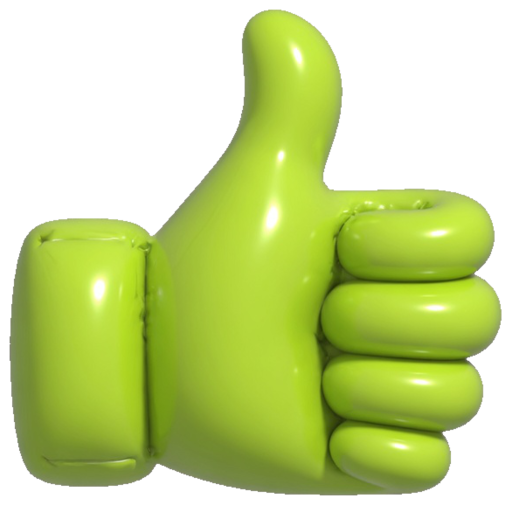
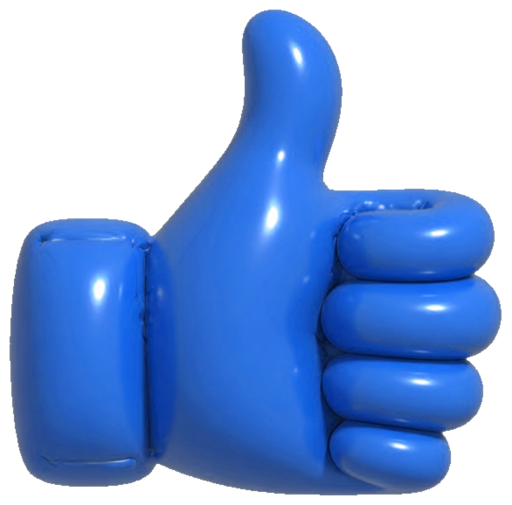
feat: enhance user presence and message reaction features
- Added lastSeenAt property to user profiles for improved presence tracking.
- Updated message reaction handling to return action type (added, changed, removed) along with reactions.
- Enhanced real-time updates for message reactions and user presence notifications.
- Improved mobile app to display last active status and manage presence updates effectively.
- Refactored push notification handling to differentiate between message types and reactions.

diff --git a/backend/src/realtime/realtime.gateway.ts b/backend/src/realtime/realtime.gateway.ts
@@ -216,13 +216,18 @@ export class RealtimeGateway implements OnGatewayConnection, OnGatewayDisconnect
     if (!isMember) throw new WsException('Not a conversation member');
     const msg = await this.messages.getInConversation(dto.messageId, dto.conversationId);
     if (!msg) throw new WsException('Message not found');
-    const reactions = await this.messages.toggleReaction(dto.messageId, userId, dto.emoji);
+    const { reactions, action } = await this.messages.toggleReaction(dto.messageId, userId, dto.emoji);
     const payload = {
       messageId: dto.messageId,
       conversationId: dto.conversationId,
       reactions,
     };
     this.server.to(this.room(dto.conversationId)).emit('message:reaction', payload);
+    if (action !== 'removed' && msg.senderId !== userId) {
+      this.deliverReactionPush(msg, userId, dto.emoji, dto.conversationId).catch((e) =>
+        this.logger.error(`reaction push failed: ${(e as Error).message}`),
+      );
+    }
     return payload;
   }
 
@@ -398,7 +403,11 @@ export class RealtimeGateway implements OnGatewayConnection, OnGatewayDisconnect
   }
 
   private broadcastPresence(userId: string, online: boolean) {
-    this.server.emit('presence:update', { userId, online });
+    this.server.emit('presence:update', {
+      userId,
+      online,
+      lastSeenAt: new Date().toISOString(),
+    });
   }
 
   private relaySignal(client: Socket, callId: string, event: string, extra: Record<string, unknown>) {
@@ -488,6 +497,43 @@ export class RealtimeGateway implements OnGatewayConnection, OnGatewayDisconnect
     const two = (n: number) => n.toString().padStart(2, '0');
     if (h > 0) return `${h}:${two(m)}:${two(s)}`;
     return `${m}:${two(s)}`;
+  }
+
+  private static readonly reactionCopy: Record<string, string> = {
+    like: 'liked your message',
+    love: 'loved your message',
+    haha: 'laughed at your message',
+    wow: 'was surprised by your message',
+    sad: 'reacted sad to your message',
+    angry: 'reacted angry to your message',
+  };
+
+  private async deliverReactionPush(
+    msg: { id: string; senderId: string; text?: string | null; type?: string },
+    reactorId: string,
+    reaction: string,
+    conversationId: string,
+  ) {
+    const reactor = await this.users.findById(reactorId);
+    const title = reactor?.fullName || reactor?.username || 'someone';
+    const body = RealtimeGateway.reactionCopy[reaction] ?? 'reacted to your message';
+    const tokens = await this.devices.getTokensForUsers([msg.senderId], {
+      excludePlatform: 'ios-voip',
+    });
+    if (!tokens.length) return;
+    await this.push.send(tokens, {
+      title,
+      body,
+      data: {
+        conversationId,
+        type: 'reaction',
+        messageId: msg.id,
+        reaction,
+        senderId: reactorId,
+        senderUsername: reactor?.username ?? '',
+        senderFullName: reactor?.fullName ?? '',
+      },
+    });
   }
 
   private async deliverPushForOffline(dto: SendMessageDto, envelope: any) {

diff --git a/mobile/lib/services/app_state.dart b/mobile/lib/services/app_state.dart
@@ -30,6 +30,7 @@ class AppState extends ChangeNotifier {
   final Set<String> _loadingMessages = {};
   // online presence by userId
   final Map<String, bool> _online = {};
+  final Map<String, DateTime> _lastSeen = {};
   // typing: conversationId -> userId -> bool
   final Map<String, Set<String>> _typingUsers = {};
   // the conversation currently open on screen (no banner for it)
@@ -284,6 +285,7 @@ class AppState extends ChangeNotifier {
     _conversations = [];
     _messages.clear();
     _online.clear();
+    _lastSeen.clear();
     _typingUsers.clear();
     notifyListeners();
     try {
@@ -306,6 +308,7 @@ class AppState extends ChangeNotifier {
     if (auth.token == null) return;
     try {
       _conversations = await ApiService.listConversations(auth.token!);
+      _seedLastSeen(_conversations);
       for (final c in _conversations) {
         final last = c.lastMessage;
         if (last == null) continue;
@@ -729,10 +732,52 @@ class AppState extends ChangeNotifier {
     final online = data['online'] as bool?;
     if (userId == null || online == null) return;
     _online[userId] = online;
+    final raw = data['lastSeenAt'];
+    final seen = raw == null ? DateTime.now() : DateTime.tryParse(raw.toString());
+    if (seen != null) _rememberLastSeen(userId, seen);
     notifyListeners();
   }
 
+  void _seedLastSeen(List<Conversation> convs) {
+    for (final c in convs) {
+      for (final m in c.members) {
+        if (m.lastSeenAt != null) _rememberLastSeen(m.userId, m.lastSeenAt!);
+      }
+    }
+  }
+
+  void _rememberLastSeen(String userId, DateTime at) {
+    final prev = _lastSeen[userId];
+    if (prev == null || at.isAfter(prev)) _lastSeen[userId] = at;
+  }
+
   bool isOnline(String userId) => _online[userId] ?? false;
+
+  DateTime? lastSeenAt(String userId) => _lastSeen[userId];
+
+  String lastActiveLabel(String userId) {
+    if (isOnline(userId)) return 'live now';
+    final at = _lastSeen[userId];
+    if (at == null) return 'offline';
+    return formatLastActive(at);
+  }
+
+  static String formatLastActive(DateTime at) {
+    final d = DateTime.now().difference(at);
+    if (d.isNegative || d.inSeconds < 45) return 'just now';
+    if (d.inMinutes < 60) {
+      final n = d.inMinutes < 1 ? 1 : d.inMinutes;
+      return n == 1 ? '1 minute ago' : '$n minutes ago';
+    }
+    if (d.inHours < 24) {
+      final n = d.inHours;
+      return n == 1 ? '1 hour ago' : '$n hours ago';
+    }
+    if (d.inDays == 1) return 'yesterday';
+    if (d.inDays < 7) return '${d.inDays} days ago';
+    final months = ['jan', 'feb', 'mar', 'apr', 'may', 'jun', 'jul', 'aug', 'sep', 'oct', 'nov', 'dec'];
+    return '${at.day} ${months[at.month - 1]}';
+  }
 
   /// Start a 1:1 audio or video call in a private conversation.
   Future<bool> startCall(Conversation c, {required bool video}) async {

diff --git a/mobile/lib/services/push_service.dart b/mobile/lib/services/push_service.dart
@@ -60,6 +60,7 @@ class PushService {
       await _persistIncomingCall(message.data);
       return;
     }
+    if (message.data['type'] == 'reaction') return;
     await _persistFcmMessage(message);
   }
 
@@ -252,13 +253,13 @@ class PushService {
     // DatabaseException(database_closed). The fallback is for the case where
     // AppState hasn't wired up yet.
     final persist = onPersistMessage;
-    if (persist != null && message.data['messageId'] != null) {
+    if (message.data['type'] != 'reaction' && persist != null && message.data['messageId'] != null) {
       try {
         persist(ChatMessage.fromFcmData(Map<String, dynamic>.from(message.data)));
       } catch (e) {
         debugPrint('FCM tap persist failed: $e');
       }
-    } else {
+    } else if (message.data['type'] != 'reaction') {
       await _persistFcmMessage(message); // persist so it shows when the chat opens
     }
     onTapConversation?.call(conversationId);
@@ -468,7 +469,7 @@ class PushService {
     // Persist into local history so the message survives an app restart.
     // onPersistMessage (set by AppState) upserts to the store AND updates the
     // live in-memory list + notifies listeners.
-    if (data['messageId'] != null && onPersistMessage != null) {
+    if (data['type'] != 'reaction' && data['messageId'] != null && onPersistMessage != null) {
       try {
         onPersistMessage!(ChatMessage.fromFcmData(Map<String, dynamic>.from(data)));
       } catch (e) {

diff --git a/mobile/lib/screens/chat_screen.dart b/mobile/lib/screens/chat_screen.dart
@@ -29,6 +29,7 @@ class _ChatScreenState extends State<ChatScreen> {
   late final AppState _app;
   int _lastMessageCount = 0;
   ChatMessage? _replyTo;
+  Timer? _presenceTick;
 
   @override
   void initState() {
@@ -41,6 +42,9 @@ class _ChatScreenState extends State<ChatScreen> {
       _app.markConversationRead(widget.conversation.id);
       _app.loadMessages(widget.conversation.id);
     });
+    _presenceTick = Timer.periodic(const Duration(seconds: 30), (_) {
+      if (mounted) setState(() {});
+    });
   }
 
   @override
@@ -50,6 +54,7 @@ class _ChatScreenState extends State<ChatScreen> {
     _inputFocus.dispose();
     _scrollCtrl.dispose();
     _typingTimer?.cancel();
+    _presenceTick?.cancel();
     super.dispose();
   }
 
@@ -432,9 +437,11 @@ class _ChatScreenState extends State<ChatScreen> {
   }
 
   Widget _privatePresence(AppState app) {
-    final online = _isOtherOnline(app);
+    final other = widget.conversation.members.where((m) => m.userId != app.currentUserId).toList();
+    if (other.isEmpty) return const SizedBox.shrink();
+    final online = app.isOnline(other.first.userId);
     return Text(
-      online ? 'live now' : 'offline',
+      app.lastActiveLabel(other.first.userId),
       style: AppTheme.body(size: 11.5, weight: FontWeight.w700, color: online ? AppTheme.primary : AppTheme.textFaint),
     );
   }

diff --git a/backend/src/conversations/messages.service.ts b/backend/src/conversations/messages.service.ts
@@ -140,21 +140,28 @@ export class MessagesService {
     messageId: string,
     userId: string,
     emoji: string,
-  ): Promise<{ userId: string; emoji: string }[]> {
+  ): Promise<{ reactions: { userId: string; emoji: string }[]; action: 'added' | 'changed' | 'removed' }> {
     const clean = emoji.trim().slice(0, 16);
-    if (!clean) return this.listReactions([messageId]).then((m) => m.get(messageId) ?? []);
+    if (!clean) {
+      const map = await this.listReactions([messageId]);
+      return { reactions: map.get(messageId) ?? [], action: 'removed' };
+    }
 
     const existing = await this.reactions.findOne({ where: { messageId, userId } });
+    let action: 'added' | 'changed' | 'removed';
     if (existing && existing.emoji === clean) {
       await this.reactions.delete({ id: existing.id });
+      action = 'removed';
     } else if (existing) {
       existing.emoji = clean;
       await this.reactions.save(existing);
+      action = 'changed';
     } else {
       await this.reactions.insert({ messageId, userId, emoji: clean });
+      action = 'added';
     }
     const map = await this.listReactions([messageId]);
-    return map.get(messageId) ?? [];
+    return { reactions: map.get(messageId) ?? [], action };
   }
 
   async listReactions(

diff --git a/mobile/lib/models/models.dart b/mobile/lib/models/models.dart
@@ -53,6 +53,7 @@ class ConversationMember {
   final String? username;
   final String? fullName;
   final String? avatarUrl;
+  final DateTime? lastSeenAt;
 
   ConversationMember({
     required this.userId,
@@ -61,6 +62,7 @@ class ConversationMember {
     this.username,
     this.fullName,
     this.avatarUrl,
+    this.lastSeenAt,
   });
 
   factory ConversationMember.fromJson(Map<String, dynamic> j) => ConversationMember(
@@ -70,9 +72,10 @@ class ConversationMember {
         username: j['username'] as String?,
         fullName: j['fullName'] as String?,
         avatarUrl: j['avatarUrl'] as String?,
+        lastSeenAt: j['lastSeenAt'] != null ? DateTime.tryParse(j['lastSeenAt'].toString()) : null,
       );
 
-  ConversationMember copyWith({String? avatarUrl}) {
+  ConversationMember copyWith({String? avatarUrl, DateTime? lastSeenAt}) {
     return ConversationMember(
       userId: userId,
       role: role,
@@ -80,6 +83,7 @@ class ConversationMember {
       username: username,
       fullName: fullName,
       avatarUrl: avatarUrl ?? this.avatarUrl,
+      lastSeenAt: lastSeenAt ?? this.lastSeenAt,
     );
   }
 }

diff --git a/mobile/lib/screens/conversations_screen.dart b/mobile/lib/screens/conversations_screen.dart
@@ -222,7 +222,10 @@ class _ConversationsScreenState extends State<ConversationsScreen>
     if (other.isEmpty) return '';
     final u = other.first;
     final online = app.isOnline(u.userId);
-    return online ? 'live now' : (u.username != null ? '@${u.username}' : '');
+    if (online) return 'live now';
+    final label = app.lastActiveLabel(u.userId);
+    if (label != 'offline') return label;
+    return u.username != null ? '@${u.username}' : '';
   }
 
   String _preview(ChatMessage m, Conversation c, AppState app) {

diff --git a/backend/src/conversations/conversations.service.ts b/backend/src/conversations/conversations.service.ts
@@ -148,6 +148,7 @@ export class ConversationsService {
           username: u?.username,
           fullName: u?.fullName,
           avatarUrl: u?.avatarUrl,
+          lastSeenAt: u?.lastSeenAt,
         };
       }),
     };
